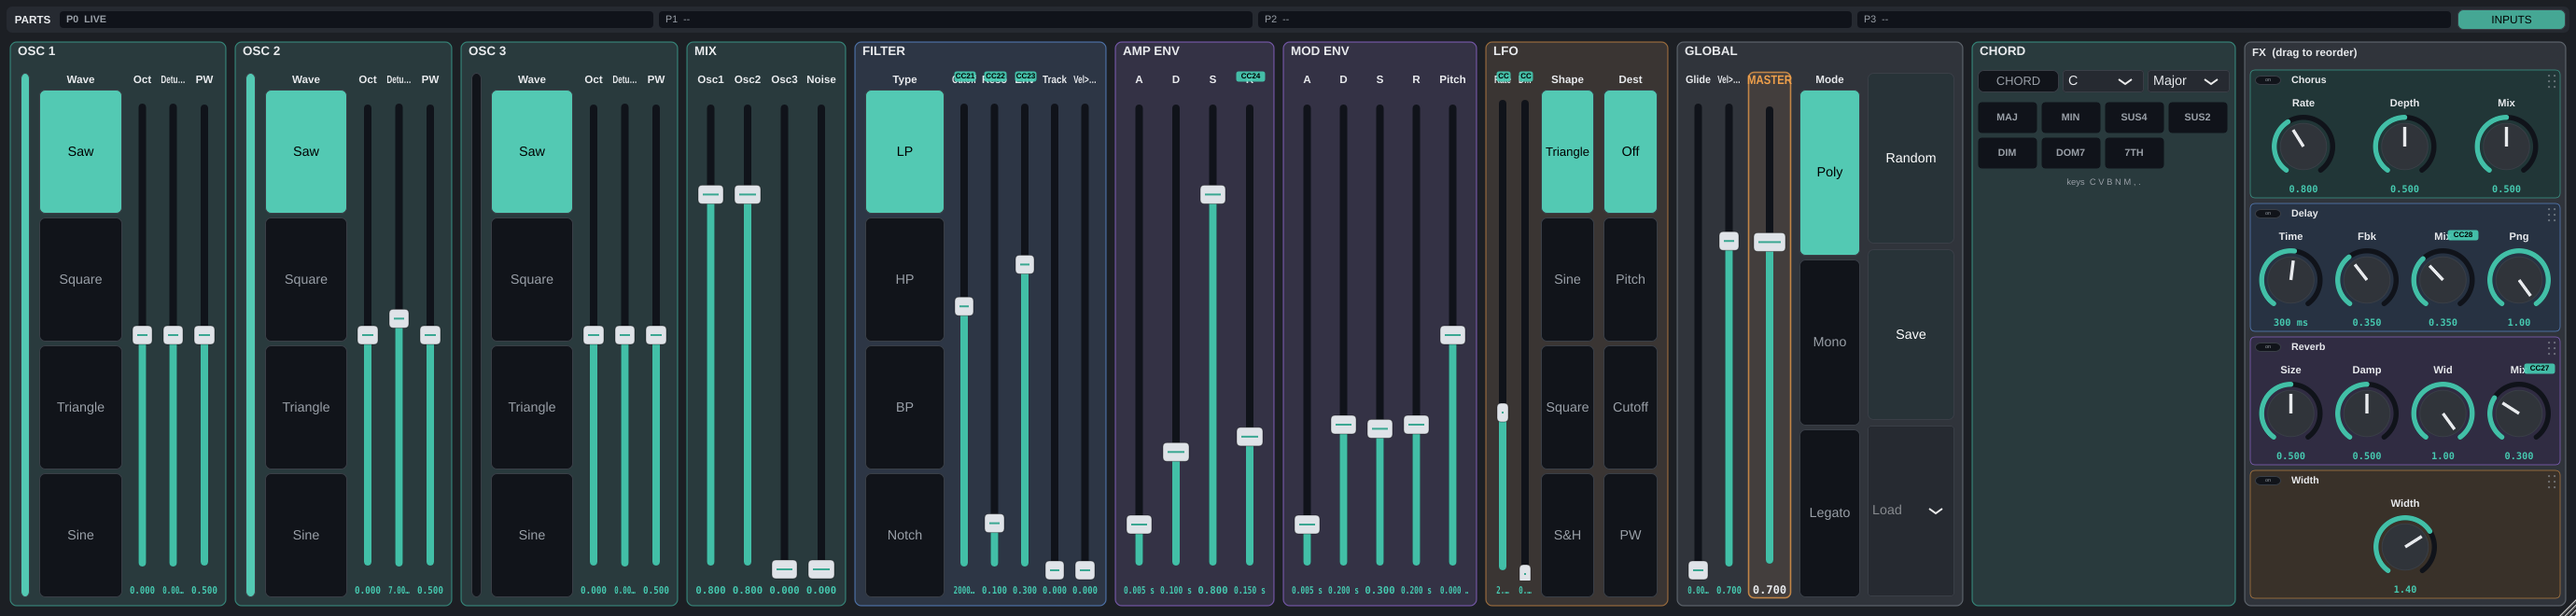
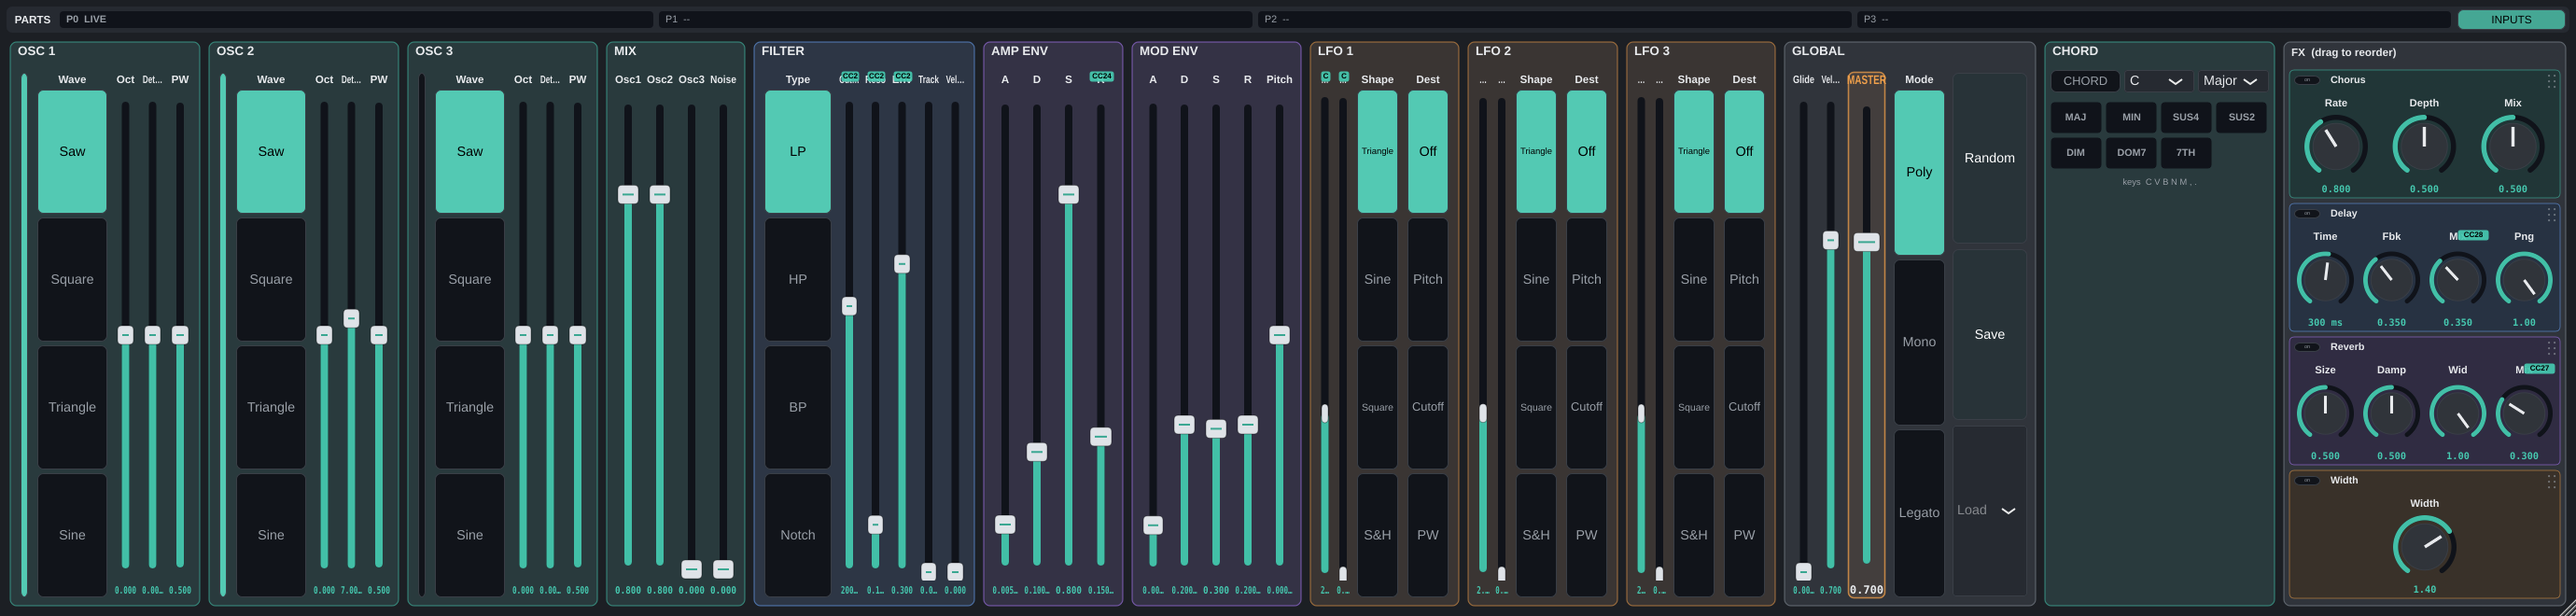
multitimbral UI: three per-part LFO sections (Sub-phase 2, increment 4)
The panel now edits the LIVE part's three LFOs: LFO 1 / LFO 2 / LFO 3 as
compact side-by-side sections (Rate/Depth/Shape/Dest each), between MOD ENV
and GLOBAL. LFO 2/3 default depth 0 / dest Off so existing patches are
unchanged. Nothing focusable (focus test green); editor.png regenerated.

Layout is space-tight per the spec's note — presented for sign-off.

diff --git a/Source/PluginEditor.h b/Source/PluginEditor.h
@@ -241,9 +241,17 @@ private:
           addFader (s, ID::fltSustain, "S"); addFader (s, ID::fltRelease, "R");
           addFader (s, ID::fltEnvToPitch, "Pitch"); }
 
-        { auto& s = addSection ("LFO", tLfo, 1.6f);
+        // Three per-part LFOs (Sub-phase 2). Compact side-by-side sections; LFO 2/3
+        // default depth 0 / dest Off (inert) so they don't change existing patches.
+        { auto& s = addSection ("LFO 1", tLfo, 1.5f);
           addFader (s, ID::lfoRate, "Rate"); addFader (s, ID::lfoDepth, "Depth");
           addChoice (s, ID::lfoShape, "Shape"); addChoice (s, ID::lfoDest, "Dest"); }
+        { auto& s = addSection ("LFO 2", tLfo, 1.5f);
+          addFader (s, ID::lfo2Rate, "Rate"); addFader (s, ID::lfo2Depth, "Depth");
+          addChoice (s, ID::lfo2Shape, "Shape"); addChoice (s, ID::lfo2Dest, "Dest"); }
+        { auto& s = addSection ("LFO 3", tLfo, 1.5f);
+          addFader (s, ID::lfo3Rate, "Rate"); addFader (s, ID::lfo3Depth, "Depth");
+          addChoice (s, ID::lfo3Shape, "Shape"); addChoice (s, ID::lfo3Dest, "Dest"); }
 
         { auto& s = addSection ("Global", tGlobal, 2.5f);
           addFader (s, ID::glideTime, "Glide"); addFader (s, ID::velToAmp, "Vel>Amp");
